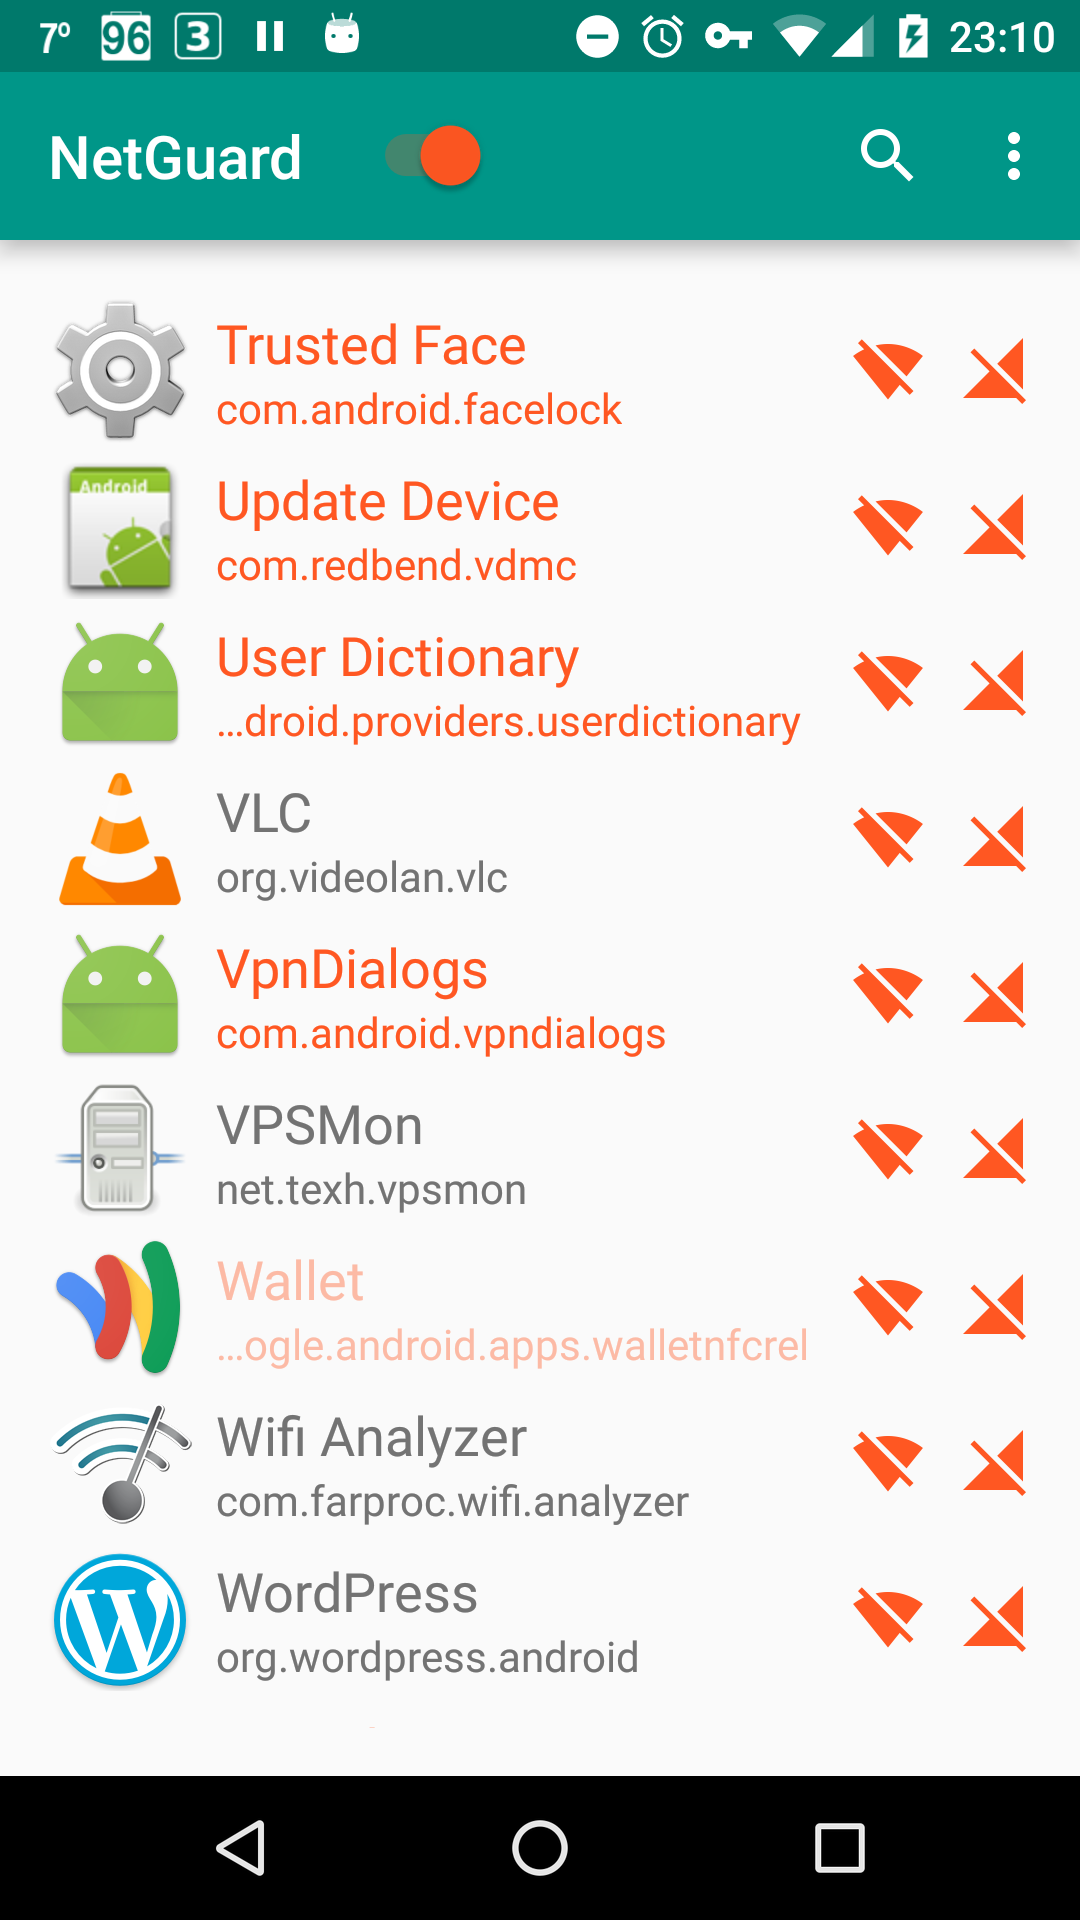
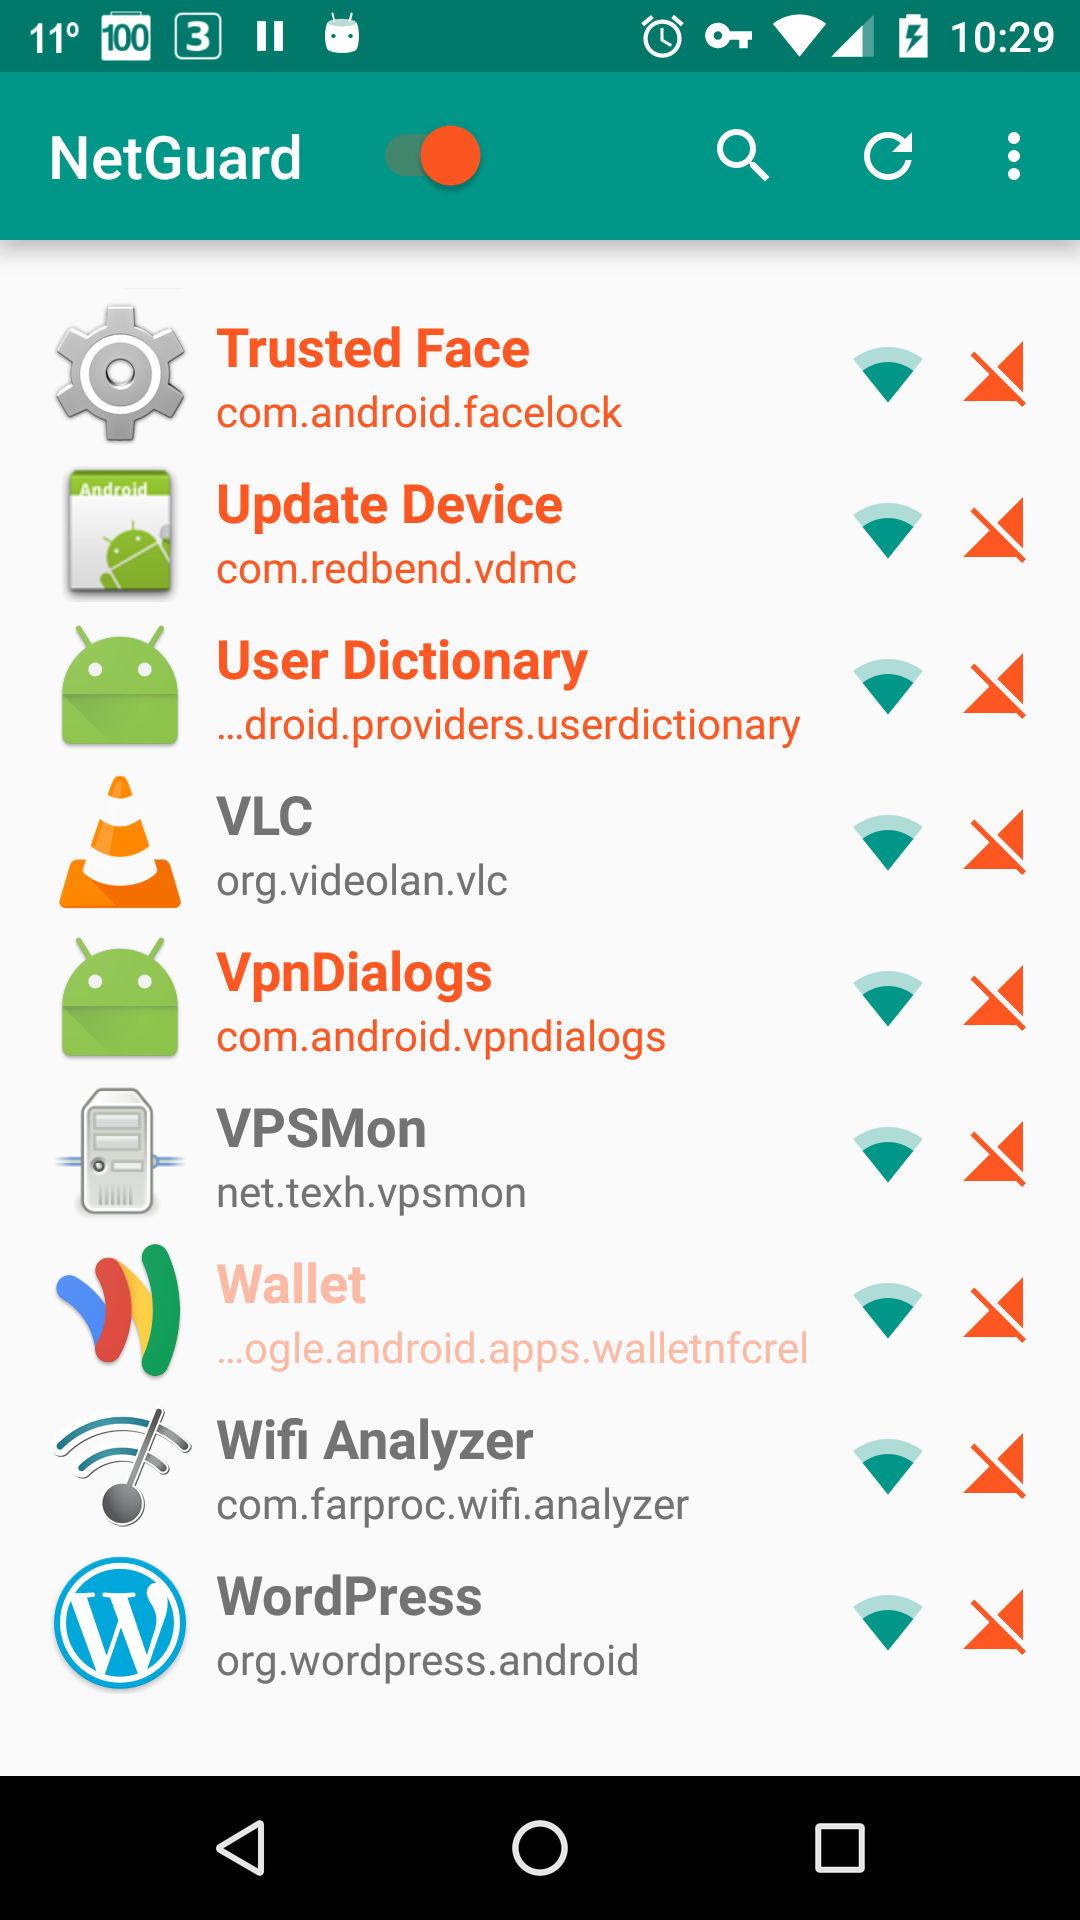
Show application name bold

diff --git a/app/src/main/java/eu/faircode/netguard/RuleAdapter.java b/app/src/main/java/eu/faircode/netguard/RuleAdapter.java
@@ -84,8 +84,6 @@ public class RuleAdapter extends RecyclerView.Adapter<RuleAdapter.ViewHolder> im
                 SharedPreferences prefs = context.getSharedPreferences(name, Context.MODE_PRIVATE);
                 prefs.edit().putBoolean(rule.info.packageName, isChecked).apply();
 
-                notifyDataSetChanged();
-
                 BlackHoleService.reload(name, context);
             }
         };
